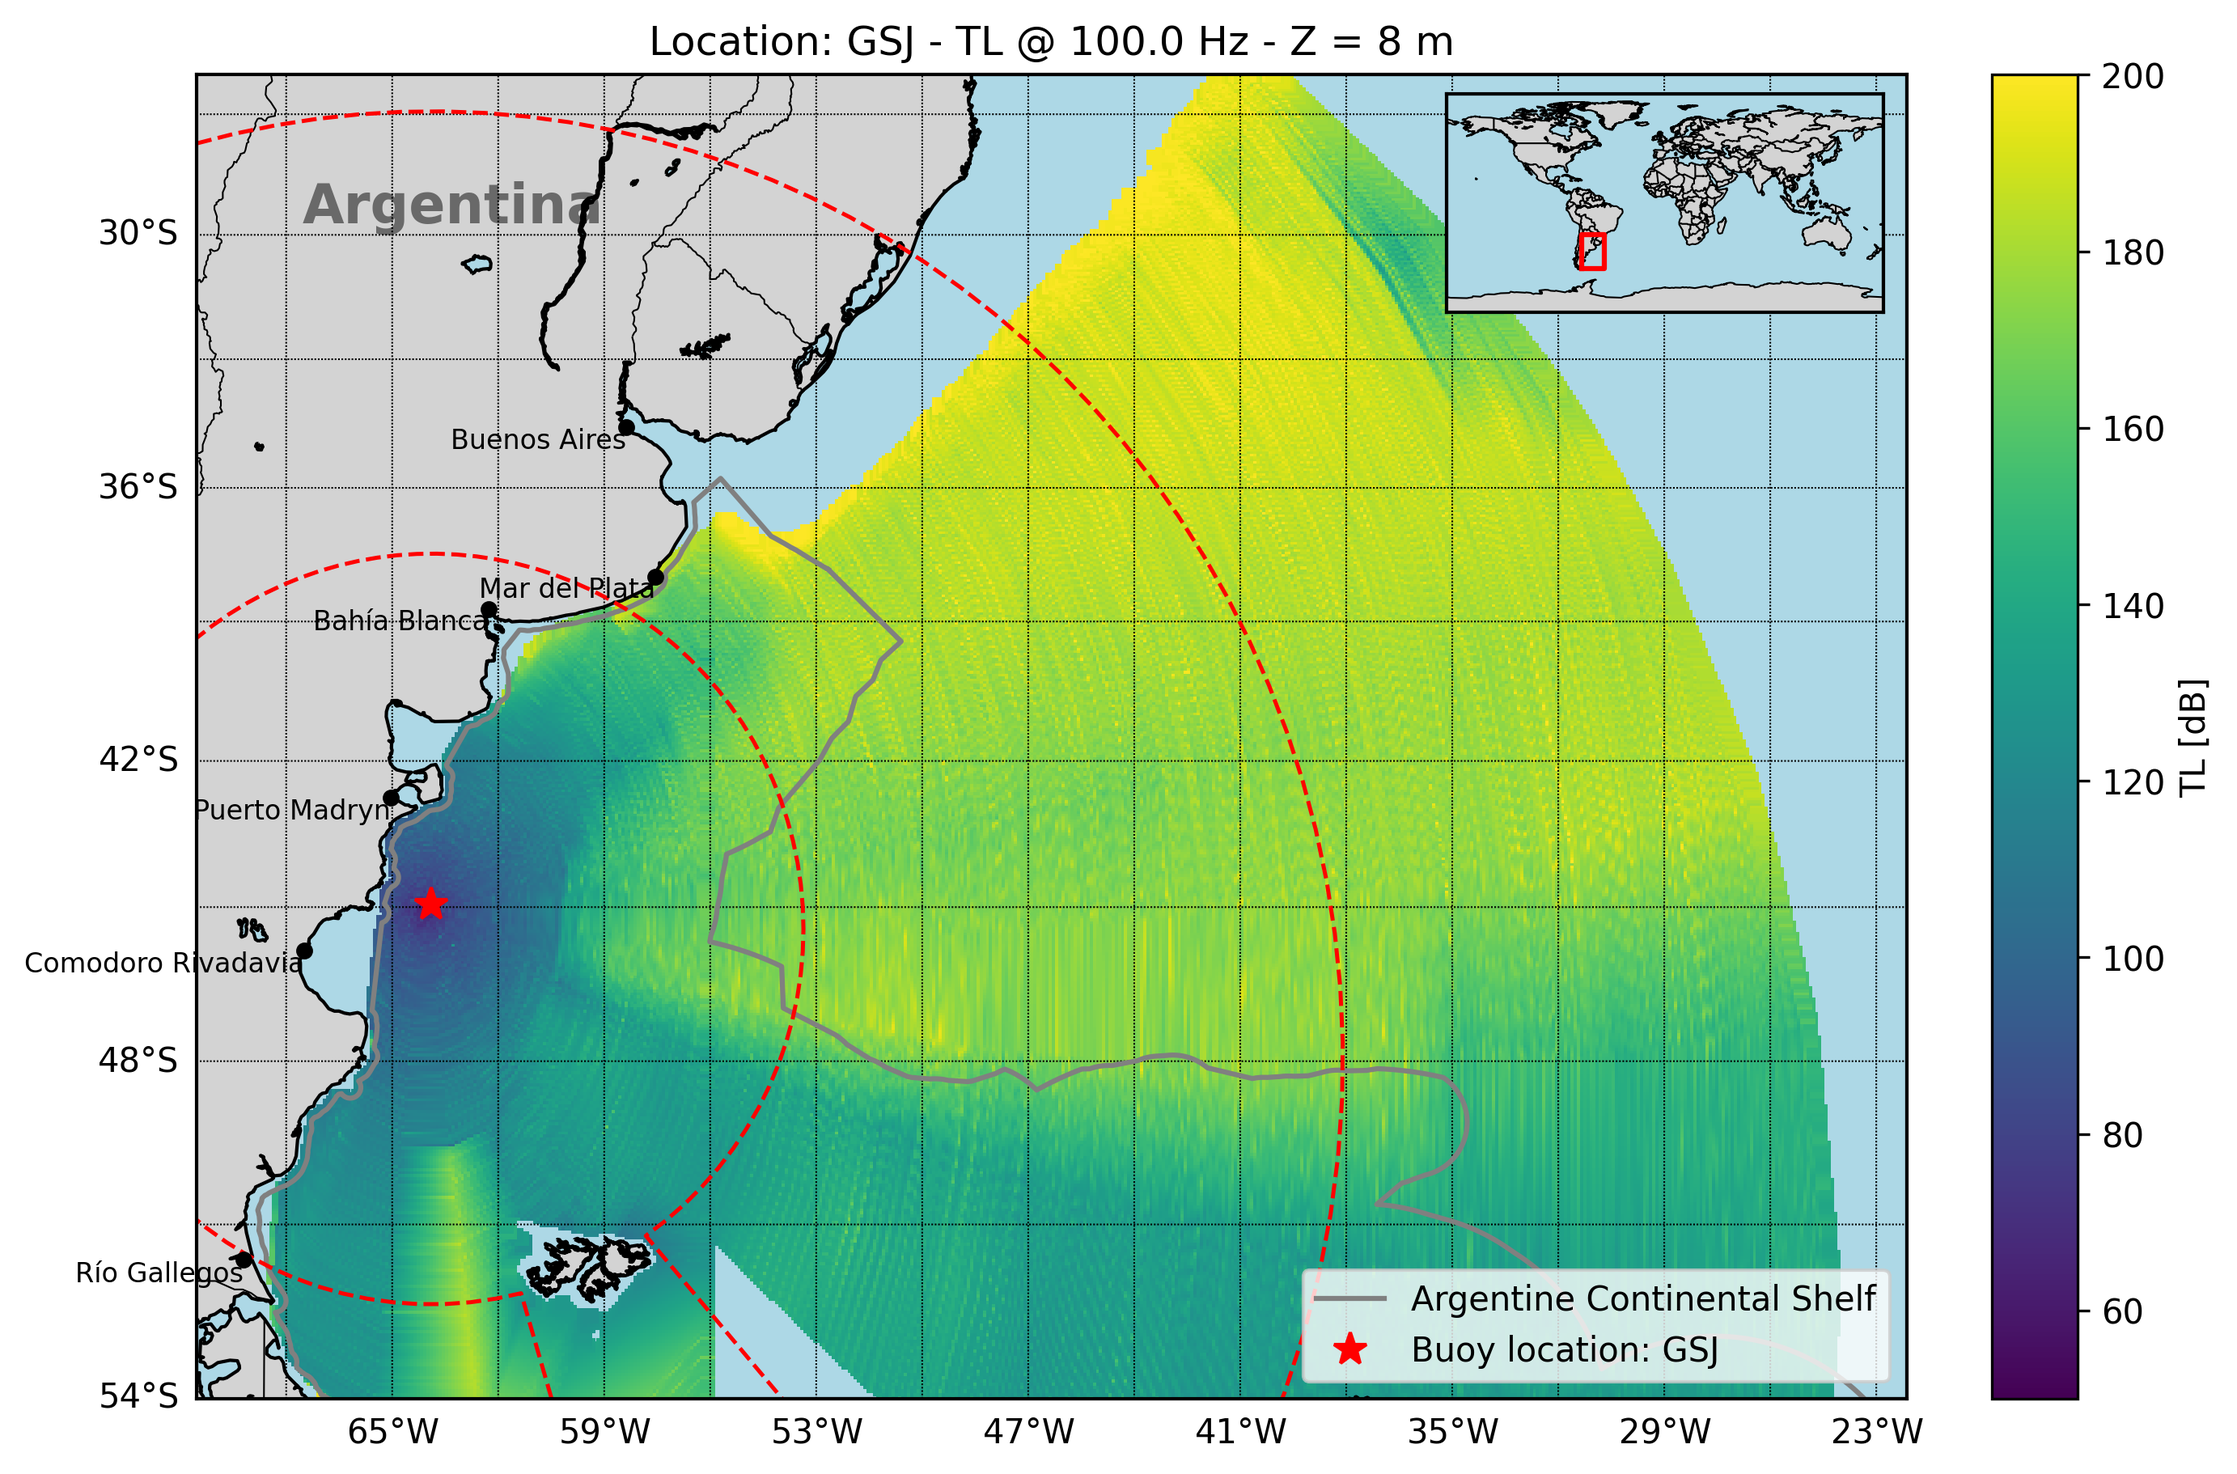
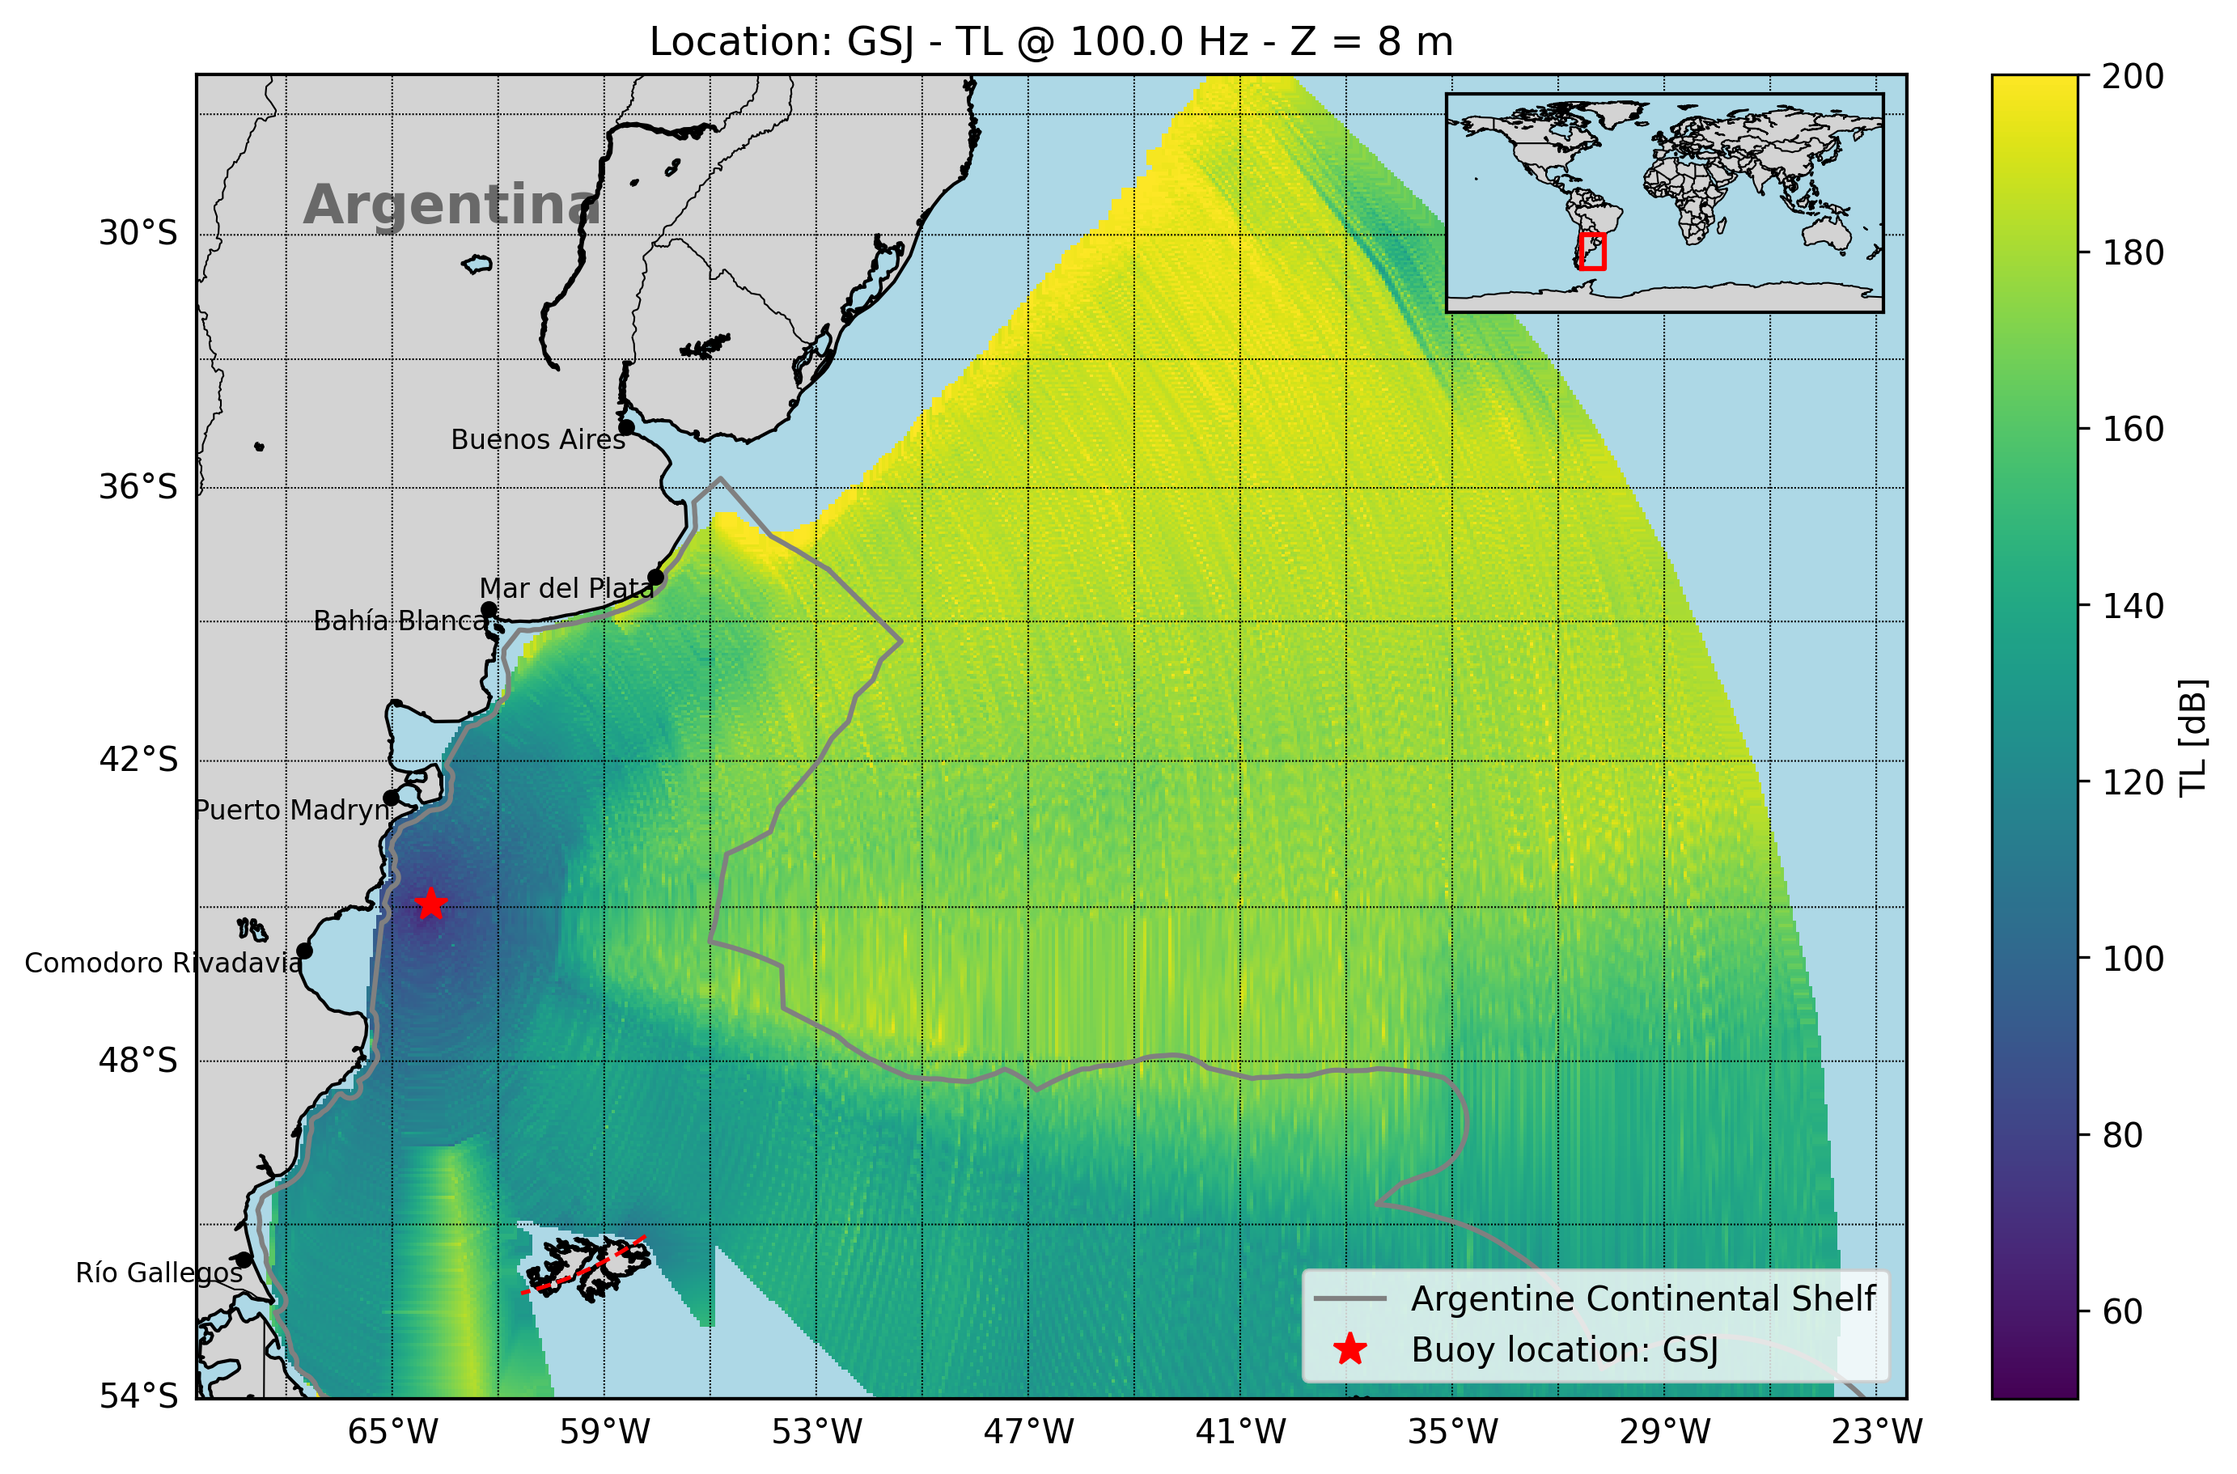
tengo el recorte ok

Changed region(s): [[0.2177, 0.8606, 0.3421, 0.9528]]

diff --git a/mapa_platform.py b/mapa_platform.py
@@ -5,25 +5,22 @@ import matplotlib.pyplot as plt
 from mpl_toolkits.basemap import Basemap
 import pandas as pd
 import numpy as np
-from shapely.geometry import Polygon, Point
-from matplotlib.patches import Polygon as MplPolygon
+from shapely.geometry import Point
 import alphashape
 from scipy.interpolate import griddata
 import geopandas as gpd
 from geopy.distance import geodesic
-import math
-
 import imageio
 
 # ==== CONFIGURACIÓN DEL USUARIO ====
-ZONA = "gsj"               # opciones: 'zais', 'gsj', 'arasj'
-VAR_TL = "tl_z_8"           # opciones: 'tl_z_8', 'tl_z_half', 'tl_max_z'
+ZONA = "zais"               # opciones: 'zais', 'gsj', 'arasj'
+VAR_TL = "tl_z_8"          # opciones: 'tl_z_8', 'tl_z_half', 'tl_max_z'
 FRECUENCIA_OBJETIVO = 100.0  # ejemplo: 100.0 para solo esa frecuencia, o None para procesar todas
 CARPETA_INPUT = "input-platform"
 CARPETA_OUTPUT = "mapas"
 UMBRAL_TL_HIGH = 200
 UMBRAL_TL_LOW = 50
-ALPHA = 0.35
+ALPHA = 0.1
 MASCARA_SHP = "Capas/plataforma_continental/plataforma_continentalPolygon.shp"
 FILTRO_TL_MIN = 30
 PARALELO_NORTE = -26
@@ -31,12 +28,18 @@ PARALELO_SUR = -54
 PARALELO_INTERPOLACION = -54
 MERIDIANO_CORTE = -56
 
+# === NUEVO: parámetros del sector ===
+A_LAT, A_LON = -51.75, -61.53   # Punto A
+B_LAT, B_LON = -51.58, -57.37   # Punto B
+R_MAX_KM = 2000.0               # rmax
+
 # Coordenadas objetivo con campo opcional "nombre"
 coordenadas_objetivo = [
     {"lat": -38.5092, "lon": -56.4850, "nombre": "ZAIS"},
     {"lat": -44.9512, "lon": -63.8894, "nombre": "GSJ"},
     {"lat": -45.9501, "lon": -59.7736, "nombre": "ARASJ"},
 ]
+
 # Ciudades argentinas
 ciudades_argentinas = [
     {"nombre": "Buenos Aires", "lat": -34.6037, "lon": -58.3816},
@@ -51,57 +54,6 @@ ciudades_argentinas = [
 
 # ==== FUNCIONES AUXILIARES ====
 
-def crear_anillo_sectorial_exclusion(punto_objetivo, punto_a, punto_b, r_max_km=2000, num_puntos=100):
-    """
-    Crea un polígono en forma de anillo sectorial (slice angular con r_min > 0) desde punto_objetivo
-    entre las direcciones a punto_a y punto_b.
-
-    Retorna shapely.geometry.Polygon con coordenadas (lon, lat)
-    """
-    lat0, lon0 = punto_objetivo
-    lat_a, lon_a = punto_a
-    lat_b, lon_b = punto_b
-
-    # Calcular distancia media (r_min)
-    dist_a = geodesic((lat0, lon0), (lat_a, lon_a)).km
-    dist_b = geodesic((lat0, lon0), (lat_b, lon_b)).km
-    r_min_km = (dist_a + dist_b) / 2
-
-    # Función de rumbo/azimuth
-    def azimuth(lat1, lon1, lat2, lon2):
-        dlon = np.radians(lon2 - lon1)
-        lat1 = np.radians(lat1)
-        lat2 = np.radians(lat2)
-        x = np.sin(dlon) * np.cos(lat2)
-        y = np.cos(lat1)*np.sin(lat2) - np.sin(lat1)*np.cos(lat2)*np.cos(dlon)
-        angle = np.arctan2(x, y)
-        return (np.degrees(angle) + 360) % 360
-
-    # Calcular ángulos
-    ang_a = azimuth(lat0, lon0, lat_a, lon_a)
-    ang_b = azimuth(lat0, lon0, lat_b, lon_b)
-
-    if ang_b < ang_a:
-        ang_b += 360
-
-    angles = np.linspace(ang_a, ang_b, num_puntos)
-
-    coords = []
-
-    # Borde exterior (r_max)
-    for ang in angles:
-        dest = geodesic(kilometers=r_max_km).destination((lat0, lon0), ang)
-        coords.append((dest.longitude, dest.latitude))
-
-    # Borde interior (r_min), en reversa para cerrar el polígono
-    for ang in reversed(angles):
-        dest = geodesic(kilometers=r_min_km).destination((lat0, lon0), ang)
-        coords.append((dest.longitude, dest.latitude))
-
-    return Polygon(coords)
-
-
-
 def extraer_frecuencia(nombre_archivo):
     match = re.search(r"f(\d+(\.\d+)?)\s*Hz", nombre_archivo)
     return float(match.group(1)) if match else None
@@ -111,6 +63,36 @@ def obtener_punto_zona(zona):
         if entry["nombre"].lower() == zona.lower():
             return entry["lon"], entry["lat"], entry["nombre"]
     return None, None, None
+
+def _azimuth(lat1, lon1, lat2, lon2):
+    dlon = np.radians(lon2 - lon1)
+    lat1 = np.radians(lat1)
+    lat2 = np.radians(lat2)
+    x = np.sin(dlon) * np.cos(lat2)
+    y = np.cos(lat1)*np.sin(lat2) - np.sin(lat1)*np.cos(lat2)*np.cos(dlon)
+    return (np.degrees(np.arctan2(x, y)) + 360) % 360
+
+def _short_arc_center_span(a_deg, b_deg):
+    """
+    Devuelve (center, halfspan) del arco más corto entre a y b.
+    - center en [0,360)
+    - halfspan en [0,180]
+    """
+    # diferencia firmada en (-180,180]
+    diff = ((b_deg - a_deg + 540) % 360) - 180
+    span = abs(diff)
+    center = (a_deg + diff / 2.0) % 360
+    halfspan = span / 2.0
+    return center, halfspan
+
+def _ang_in_short_arc(theta_deg, a_deg, b_deg):
+    """
+    True si theta está dentro del arco más corto entre a y b (incluye borde).
+    """
+    center, halfspan = _short_arc_center_span(a_deg, b_deg)
+    # distancia angular mínima a center en [-180,180]
+    delta = ((theta_deg - center + 540) % 360) - 180
+    return np.abs(delta) <= halfspan
 
 def procesar_archivo(ruta_archivo):
     try:
@@ -135,6 +117,9 @@ def procesar_archivo(ruta_archivo):
             print(f"[ERROR] Columnas faltantes en {nombre_archivo}")
             return
 
+        # === PUNTO DE CÁLCULO (lo usamos para el recorte) ===
+        punto_lon, punto_lat, punto_nombre = obtener_punto_zona(ZONA)
+
         # === GRAFICAR MAPA ===
         fig, ax = plt.subplots(figsize=(10, 8))
         m = Basemap(projection='merc',
@@ -155,27 +140,24 @@ def procesar_archivo(ruta_archivo):
         # === MERIDIANOS (Longitudes) ===
         meridianos = np.arange(np.floor(m.llcrnrlon), np.ceil(m.urcrnrlon) + step, step)
         for i, mer in enumerate(meridianos):
-            label = 1 if i % 2 == 0 else 0  # Etiquetar uno de cada dos
+            label = 1 if i % 2 == 0 else 0
             m.drawmeridians([mer], labels=[0, 0, 0, label], linewidth=0.5, color='black')
 
         # === PARALELOS (Latitudes) ===
         paralelos = np.arange(np.floor(m.llcrnrlat), np.ceil(m.urcrnrlat) + step, step)
         for i, par in enumerate(paralelos):
-            label = 1 if i % 2 == 0 else 0  # Etiquetar uno de cada dos
+            label = 1 if i % 2 == 0 else 0
             m.drawparallels([par], labels=[label, 0, 0, 0], linewidth=0.5, color='black')
 
         for ciudad in ciudades_argentinas:
             cx, cy = m(ciudad["lon"], ciudad["lat"])
             m.plot(cx, cy, marker='o', color='black', markersize=4, zorder=5)
-            plt.text(cx, cy, ciudad["nombre"],
-                    fontsize=8, ha='right', va='top')
-
+            plt.text(cx, cy, ciudad["nombre"], fontsize=8, ha='right', va='top')
 
         # Etiqueta "Argentina"
         plt.text(0.15, 0.9, "Argentina", transform=ax.transAxes,
                  fontsize=16, fontweight='bold', color='black',
                  ha='center', va='center', alpha=0.5)
-
 
         # === POLÍGONO CÓNCAVO ===
         alpha_shape = alphashape.alphashape(list(zip(df['lon'], df['lat'])), alpha=ALPHA)
@@ -186,7 +168,7 @@ def procesar_archivo(ruta_archivo):
         lon_mesh, lat_mesh = np.meshgrid(lon_grid, lat_grid)
         grid_points = np.c_[lon_mesh.ravel(), lat_mesh.ravel()]
 
-        # === MÁSCARA SHP ===
+        # === MÁSCARA SHP (plataforma) + lado derecho del meridiano usando alpha-shape ===
         gdf_mascara = gpd.read_file(MASCARA_SHP).to_crs("EPSG:4326")
 
         in_alpha = np.array([alpha_shape.contains(Point(lon, lat)) for lon, lat in grid_points])
@@ -197,10 +179,38 @@ def procesar_archivo(ruta_archivo):
         gdf_grid_left = gpd.sjoin(gdf_grid_left, gdf_mascara, predicate="intersects", how="inner")
         points_in_mask = np.array([[pt.x, pt.y] for pt in gdf_grid_left.geometry])
 
+        # Unimos puntos válidos de ambos lados
         all_valid_points = np.vstack([points_in_alpha, points_in_mask])
 
+        # === EXCLUSIÓN DEL SECTOR ANULAR (ANTES DE INTERPOLAR) ===
+        # Conservar: r < rmin  OR  r > rmax  OR  (rmin <= r <= rmax AND FUERA del sector angular corto A-B)
+        if (punto_lon is not None) and (punto_lat is not None):
+            # Ángulos de A y B desde el centro
+            ang_a = _azimuth(punto_lat, punto_lon, A_LAT, A_LON)
+            ang_b = _azimuth(punto_lat, punto_lon, B_LAT, B_LON)
 
-        # === INTERPOLACIÓN ===
+            # Radios rmin y rmax
+            dist_a = geodesic((punto_lat, punto_lon), (A_LAT, A_LON)).km
+            dist_b = geodesic((punto_lat, punto_lon), (B_LAT, B_LON)).km
+            r_min_km = (dist_a + dist_b) / 2.0
+
+            lats = all_valid_points[:, 1]
+            lons = all_valid_points[:, 0]
+
+            # Ángulo y radio de cada punto
+            ang_pts = np.array([_azimuth(punto_lat, punto_lon, lat, lon) for lat, lon in zip(lats, lons)])
+            r_pts = np.array([geodesic((punto_lat, punto_lon), (lat, lon)).km for lat, lon in zip(lats, lons)])
+
+            in_annulus = (r_pts >= r_min_km) & (r_pts <= R_MAX_KM)
+            in_sector_short = _ang_in_short_arc(ang_pts, ang_a, ang_b)
+
+            # Puntos a ELIMINAR: dentro del anillo Y dentro del sector angular corto A-B
+            remove = in_annulus & in_sector_short
+
+            # Puntos a CONSERVAR: todo lo demás
+            all_valid_points = all_valid_points[~remove]
+
+        # === INTERPOLACIÓN (ya sin la porción excluida) ===
         tl_interp = griddata(points=np.c_[df['lon'], df['lat']], values=df[VAR_TL], xi=all_valid_points, method='linear')
         bat_interp = griddata(points=np.c_[df['lon'], df['lat']], values=df['bat'], xi=all_valid_points, method='linear')
 
@@ -224,31 +234,34 @@ def procesar_archivo(ruta_archivo):
                     ax.plot(x_mask, y_mask, color='gray', linewidth=1.5)
 
         # === GRAFICAR PUNTO DE CÁLCULO ===
-        punto_lon, punto_lat, punto_nombre = obtener_punto_zona(ZONA)
-
-        if punto_lon is not None:
+        if (punto_lon is not None) and (punto_lat is not None):
             x_punto, y_punto = m(punto_lon, punto_lat)
             m.plot(x_punto, y_punto, 'r*', markersize=10, label=f'Buoy location: {ZONA.upper()}')
-            #plt.text(x_punto + 10000, y_punto + 5000, punto_nombre, fontsize=8, color='red', weight='bold')
 
-        poligono_exclusion = crear_anillo_sectorial_exclusion(
-            punto_objetivo=(punto_lat, punto_lon),
-            punto_a=(-51.75, -61.53),
-            punto_b=(-51.58, -57.37),
-            r_max_km=2000
-        )
+        # === GRAFICAR SOLO LOS ARCOS DEL SECTOR DE EXCLUSIÓN (ARCO CORTO A-B) ===
+        if (punto_lon is not None) and (punto_lat is not None):
+            ang_a = _azimuth(punto_lat, punto_lon, A_LAT, A_LON)
+            ang_b = _azimuth(punto_lat, punto_lon, B_LAT, B_LON)
 
-        # === FILTRAR PUNTOS DENTRO DEL SECTOR DE EXCLUSIÓN ===
-        mask_exclusion = np.array([
-            not poligono_exclusion.contains(Point(lon, lat))
-            for lon, lat in all_valid_points
-        ])
-        all_valid_points = all_valid_points[mask_exclusion]
+            # rmin según definición
+            dist_a = geodesic((punto_lat, punto_lon), (A_LAT, A_LON)).km
+            dist_b = geodesic((punto_lat, punto_lon), (B_LAT, B_LON)).km
+            r_min_km = (dist_a + dist_b) / 2.0
 
-        # === GRAFICAR SECTOR DE EXCLUSIÓN ===
-        if poligono_exclusion is not None:
-            x_sec, y_sec = m(*zip(*poligono_exclusion.exterior.coords))
-            ax.plot(x_sec, y_sec, color='red', linewidth=1.2, linestyle='--')  # sin label
+            # Muestreo de ángulos sobre el arco más corto A-B
+            center, halfspan = _short_arc_center_span(ang_a, ang_b)
+            # 180 muestras a lo largo del arco
+            angles = (center + np.linspace(-halfspan, halfspan, 180)) % 360
+
+            # Arco exterior (R_MAX_KM)
+            arco_max = [geodesic(kilometers=R_MAX_KM).destination((punto_lat, punto_lon), ang) for ang in angles]
+            x_max, y_max = m([d.longitude for d in arco_max], [d.latitude for d in arco_max])
+            ax.plot(x_max, y_max, linestyle='--', linewidth=1.2, color='red')
+
+            # Arco interior (r_min_km)
+            arco_min = [geodesic(kilometers=r_min_km).destination((punto_lat, punto_lon), ang) for ang in angles]
+            x_min, y_min = m([d.longitude for d in arco_min], [d.latitude for d in arco_min])
+            ax.plot(x_min, y_min, linestyle='--', linewidth=1.2, color='red')
 
         lon_min = np.clip(df['lon'].min(), -70, -50)
         lon_max = np.clip(df['lon'].max(), -70, -50)
@@ -259,26 +272,20 @@ def procesar_archivo(ruta_archivo):
         try:
             ax_inlet = fig.add_axes((0.64, 0.68, 0.18, 0.18))  # Arriba a la derecha
             m_inlet = Basemap(projection='cyl',
-                  llcrnrlat=-90,
-                  urcrnrlat=90,
-                  llcrnrlon=-180,
-                  urcrnrlon=180,
-                  resolution='c',
-                  ax=ax_inlet)
+                  llcrnrlat=-90, urcrnrlat=90, llcrnrlon=-180, urcrnrlon=180,
+                  resolution='c', ax=ax_inlet)
 
             m_inlet.drawcoastlines(linewidth=0.5)
             m_inlet.drawcountries(linewidth=0.5)
             m_inlet.drawmapboundary(fill_color='lightblue')
             m_inlet.fillcontinents(color='lightgray', lake_color='lightblue')
 
-            # Usar el rango limpio ya calculado de interpolación
             rect_lons = [lon_min, lon_max, lon_max, lon_min, lon_min]
             rect_lats = [lat_min, lat_min, lat_max, lat_max, lat_min]
             m_inlet.plot(rect_lons, rect_lats, color='red', linewidth=1.5, zorder=10)
 
         except Exception as e:
             print(f"[ERROR] Al crear el inlet planisferio: {e}")
-
 
         # === TÍTULO Y GUARDADO ===
         cbar = m.colorbar(sc_interp, location='right', pad="5%")
@@ -301,20 +308,16 @@ def crear_gif(carpeta_output, zona, var_tl, duracion=1.0):
         for f in os.listdir(carpeta_output)
         if f.endswith(".png") and f.startswith(f"{zona}_f") and var_tl in f
     ]
-
     if not imagenes:
         print("⚠ No se encontraron imágenes para generar el GIF.")
         return
 
-    # Ordenar usando tu función existente
     imagenes.sort(key=lambda f: extraer_frecuencia(os.path.basename(f)) or float('inf'))
-
     gif_path = os.path.join(carpeta_output, f"{zona}_{var_tl}.gif")
 
     print(f"🎞 Generando GIF con {len(imagenes)} imágenes...")
     frames = [imageio.v2.imread(img) for img in imagenes]
     imageio.mimsave(gif_path, frames, duration=duracion)
-
     print(f"✅ GIF generado: {gif_path}")
 
 if __name__ == "__main__":
@@ -328,6 +331,4 @@ if __name__ == "__main__":
         pool.map(procesar_archivo, archivos)
 
     print("✅ Todos los archivos procesados.")
-
-    # Crear GIF animado con los mapas generados
     crear_gif(CARPETA_OUTPUT, ZONA, VAR_TL, duracion=1.0)
